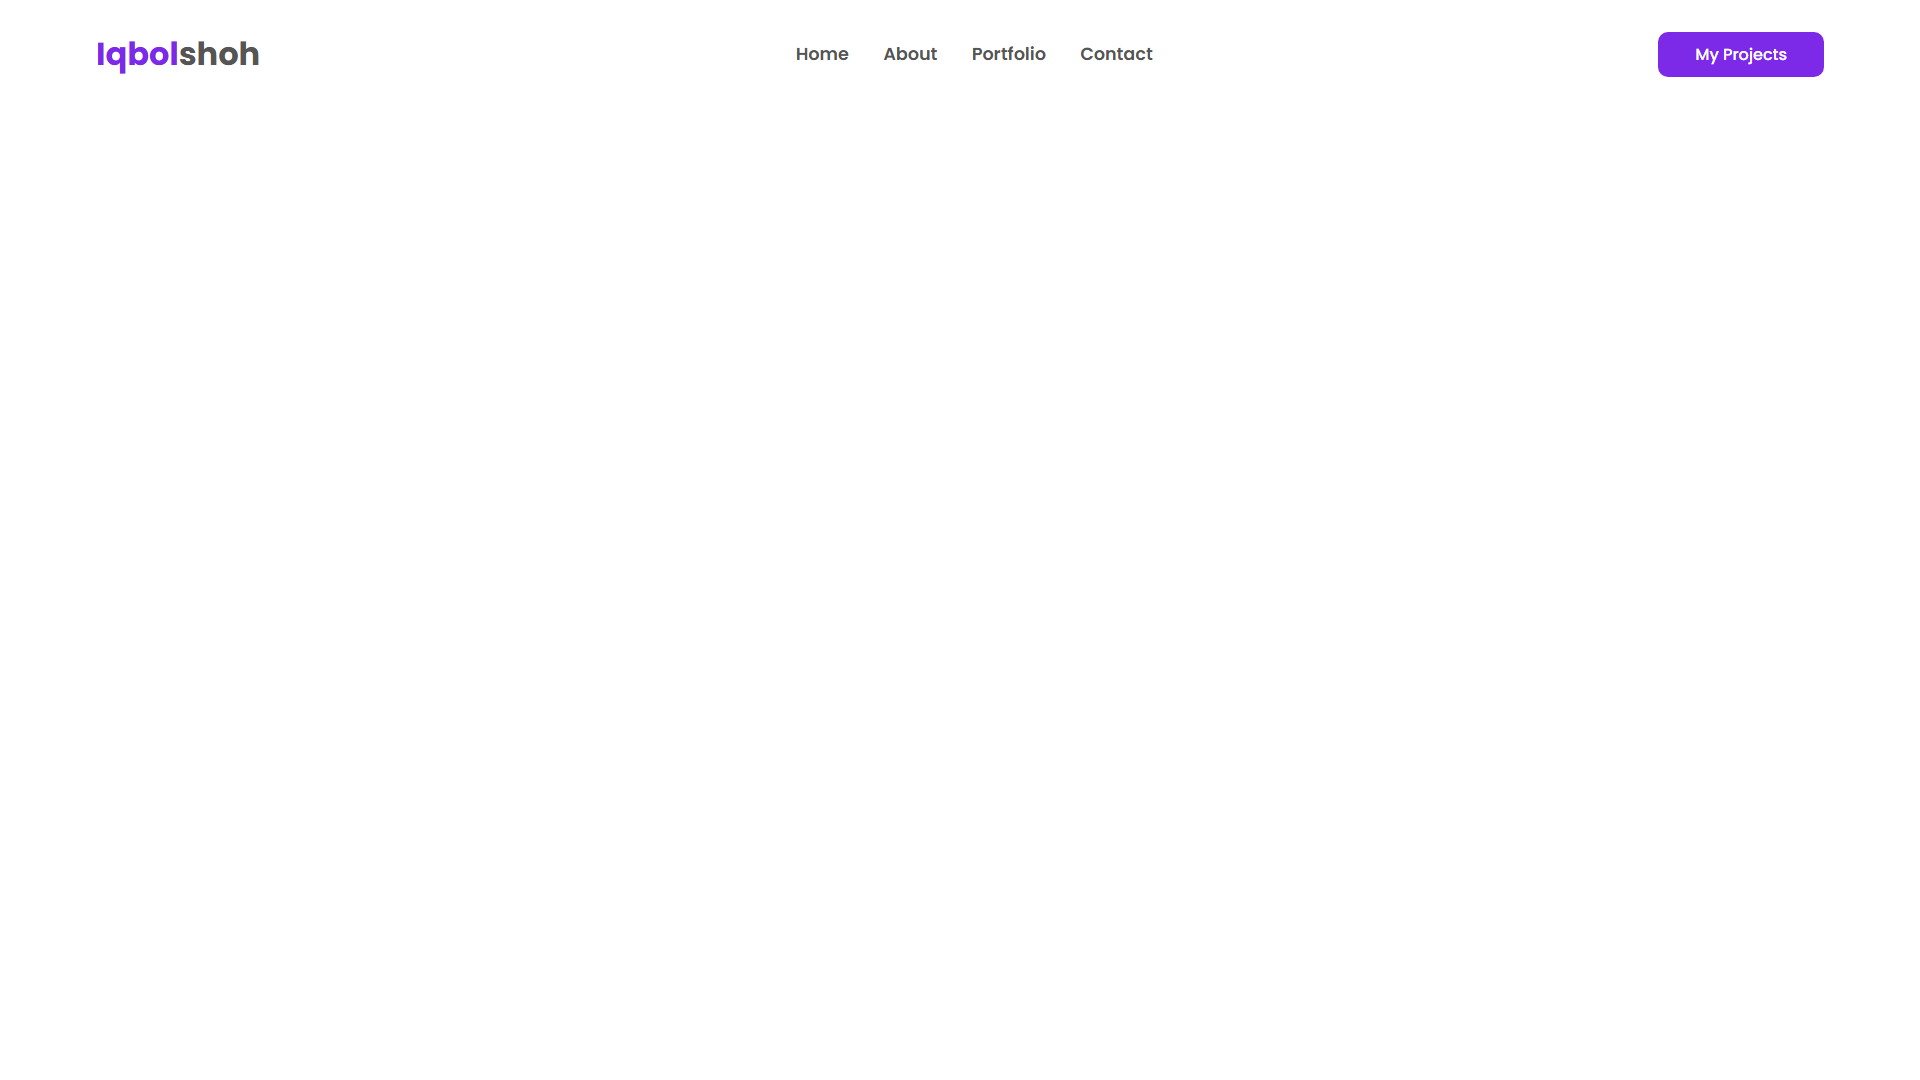
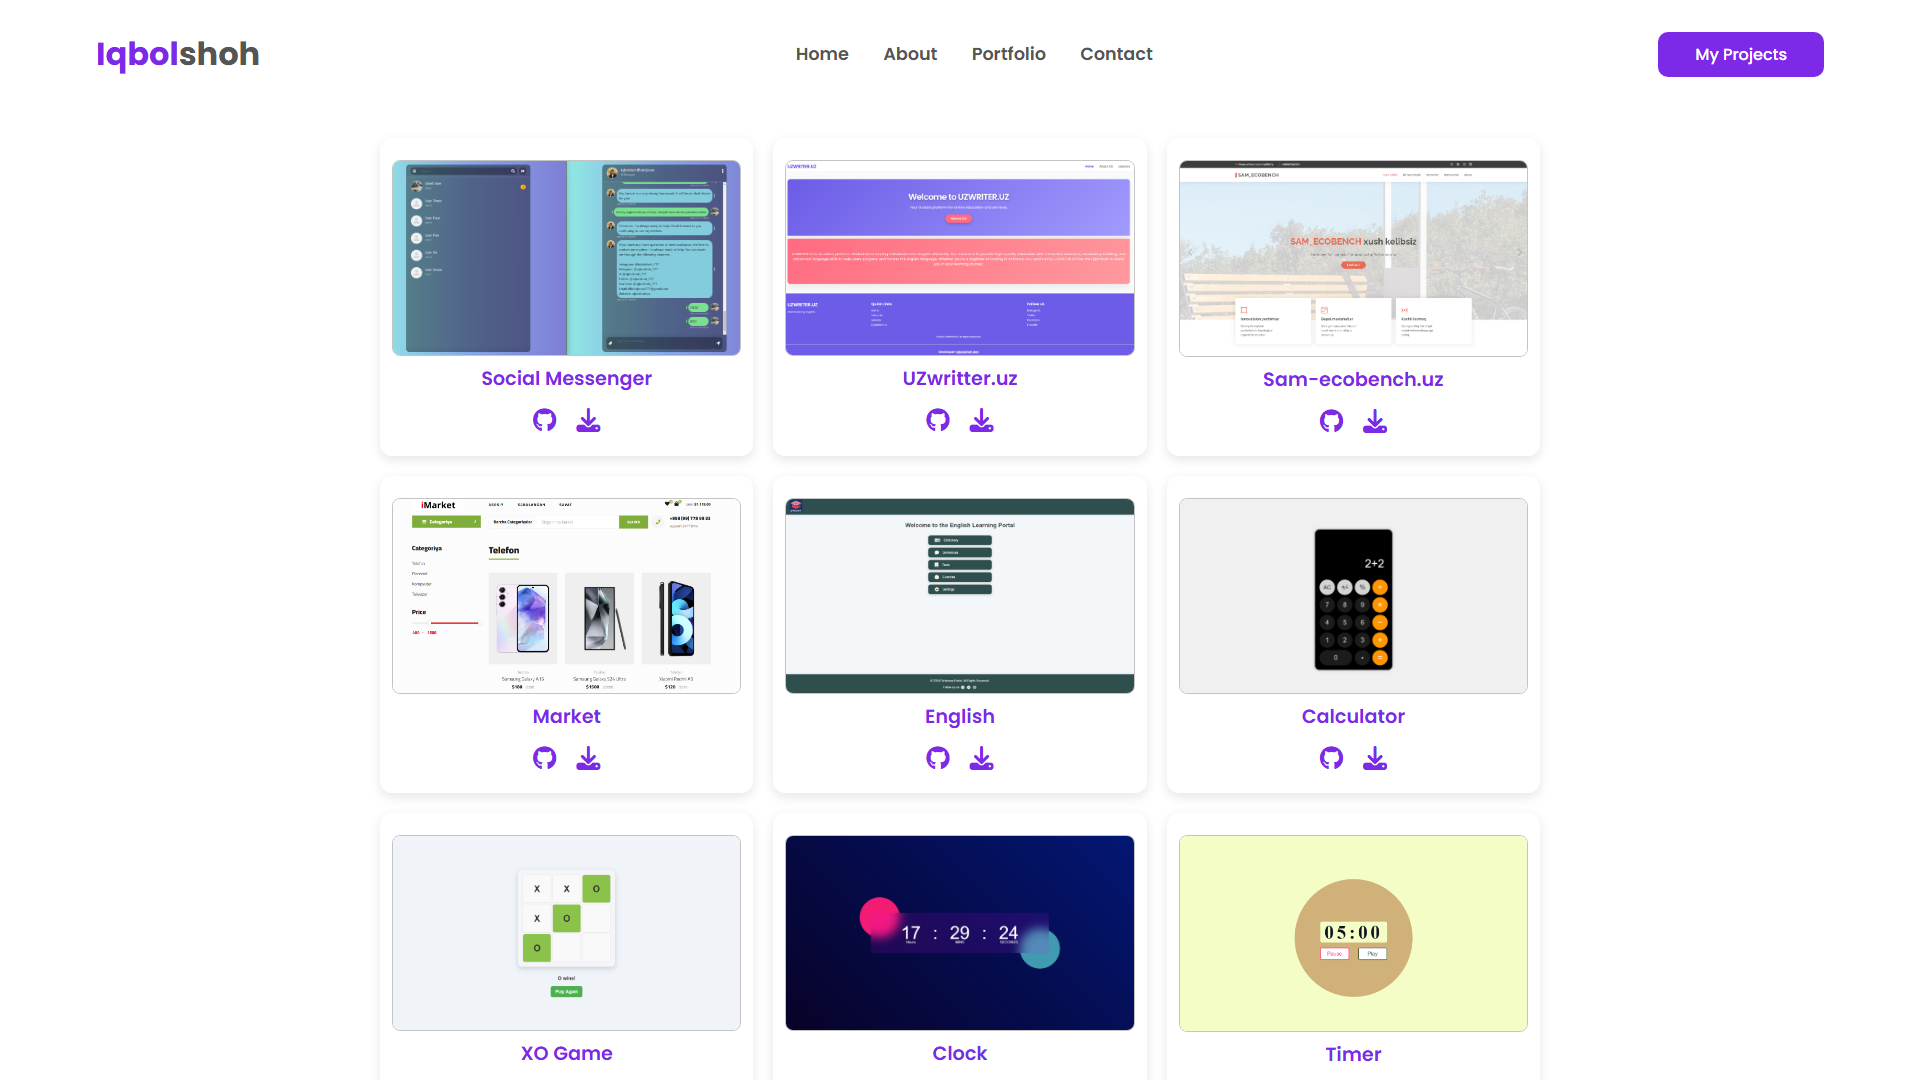
Update README.md and add LICENSE file

diff --git a/README.md b/README.md
@@ -1,19 +1,37 @@
-# 🌐 Ilhomjonov Iqbolshoh - Personal Website
+# 🌐 Iqbolshoh Ilhomjonov — Personal Portfolio Website
 
-![Banner](./src/images/banner.png)  
+**Personal Portfolio Website** is a clean, multi-page personal site built with **HTML, CSS, and JavaScript**. It introduces **Iqbolshoh Ilhomjonov**, a Full-Stack Web Developer from Samarkand, and showcases his projects, background, and contact details.
 
-Welcome to my **personal website repository**! 🎉 This site serves as a digital representation of **who I am**, my **skills**, and the **projects** I’ve worked on. Built with a **clean and modern design**, this portfolio highlights my journey as a **Full-Stack Developer** from **Samarkand**.  
+<p align="left">
+  <img src="https://img.shields.io/badge/HTML-%23E34F26.svg?style=for-the-badge&logo=html5&logoColor=white" alt="HTML">
+  <img src="https://img.shields.io/badge/CSS-%231572B6.svg?style=for-the-badge&logo=css3&logoColor=white" alt="CSS">
+  <img src="https://img.shields.io/badge/License-MIT-green.svg?style=for-the-badge" alt="License">
+</p>
+
+![Banner](./src/images/banner.png)
+
+## 📚 Table of Contents
+
+- [Overview](#-overview)
+- [Screenshots](#-screenshots)
+- [Installation](#-installation)
+- [Project Structure](#-project-structure)
+- [Technologies Used](#-technologies-used)
+- [License](#-license)
+- [Contributing](#-contributing)
+- [Connect with Me](#-connect-with-me)
 
 ## 📌 Overview
 
 This website includes the following sections:
 
-🔹 **Home** – Introduction to who I am.  
-🔹 **About** – My background, skills, and experience.  
-🔹 **Portfolio** – A showcase of my best projects.  
-🔹 **Contact** – Get in touch with me via email or phone.  
+🔹 **Home** – Introduction and a quick link to social profiles.
+🔹 **About** – Background, skills, and experience.
+🔹 **Portfolio** – A live-loaded showcase of 13 projects, each linking to its GitHub repo and a one-click source download.
+🔹 **Contact** – A contact form (powered by [EmailJS](https://www.emailjs.com/)) plus direct email, phone, and GitHub links.
+🔹 **404 Page** – A custom "page not found" screen wired up via `.htaccess`.
 
-## 🖥 Preview
+## 🖥 Screenshots
 
 <p align="center">
   <img src="./src/images/desktop(index).png" alt="Home Page" width="49%">
@@ -22,117 +40,70 @@ This website includes the following sections:
 <p align="center">
   <img src="./src/images/desktop(portfolio).png" alt="Portfolio Page" width="49%">
   <img src="./src/images/desktop(contact).png" alt="Contact Page" width="49%">
-</p>  
+</p>
 
----
+## 🛠 Installation
 
-## 🛠 Installation & Setup  
-
-To run this project on your local machine, follow these simple steps:  
-
-1⃣ **Clone the repository** 🛎:  
-
+### 1⃣ Clone the repository
 ```bash
 git clone https://github.com/Iqbolshoh/personal-portfolio-website.git
-```  
-
-2⃣ **Navigate to the project directory** 📂:  
-
-```bash
 cd personal-portfolio-website
-```  
+```
 
-3⃣ **Open `index.html`** in your **web browser** 🌍 to view the website.  
+### 2⃣ Open `index.html`
+For the Home and About pages, opening `index.html` directly in a browser works fine.
 
----
+> The **Portfolio** page loads `src/js/projects.json` via `fetch()`, which browsers block on the `file://` protocol. Serve the folder with any local server to view it correctly, e.g.:
+> ```bash
+> php -S localhost:8000
+> ```
+> or
+> ```bash
+> npx http-server
+> ```
 
-## 📂 File Structure  
+## 📂 Project Structure
 
-📁 **Project Root**  
-├── `index.html` – **Homepage** 🏠  
-├── `about.html` – **About Me** 📖  
-├── `portfolio.html` – **Projects Portfolio** 🖼  
-├── `contact.html` – **Contact Page** 📩 *(Uses EmailJS for form submissions! 🚀)*  
-├── `src/images/` – **Images & Banners** 🖼  
-├── `src/css/` – **Custom Stylesheets** 🎨  
-└── `src/js/` – **JavaScript Files** ⚡  
-
+```
+personal-portfolio-website/
+├── index.html         # Home page
+├── about.html          # About page
+├── portfolio.html      # Portfolio page (fetches projects.json)
+├── contact.html        # Contact page (EmailJS form)
+├── 404.html            # Custom error page
+├── .htaccess            # Rewrite rules + custom error documents
+├── src/
+│   ├── css/             # Page-specific and shared stylesheets
+│   ├── js/
+│   │   ├── script.js     # Contact form + portfolio rendering logic
+│   │   └── projects.json # Portfolio project data
+│   └── images/           # Banner, profile photos, and project thumbnails
+├── LICENSE
+└── README.md
+```
 
 ## 🖥 Technologies Used
 ![HTML](https://img.shields.io/badge/HTML-%23E34F26.svg?style=for-the-badge&logo=html5&logoColor=white)
 ![CSS](https://img.shields.io/badge/CSS-%231572B6.svg?style=for-the-badge&logo=css3&logoColor=white)
-![Bootstrap](https://img.shields.io/badge/Bootstrap-%23563D7C.svg?style=for-the-badge&logo=bootstrap&logoColor=white)
 ![JavaScript](https://img.shields.io/badge/JavaScript-%23F7DF1C.svg?style=for-the-badge&logo=javascript&logoColor=black)
-![jQuery](https://img.shields.io/badge/jQuery-%230e76a8.svg?style=for-the-badge&logo=jquery&logoColor=white)
-![PHP](https://img.shields.io/badge/PHP-%23777BB4.svg?style=for-the-badge&logo=php&logoColor=white)
+![Font Awesome](https://img.shields.io/badge/Font%20Awesome-%23528DD7.svg?style=for-the-badge&logo=fontawesome&logoColor=white)
 
 ## 📜 License
-This project is open-source and available under the **MIT License**.
+This project is open-source and available under the [MIT License](./LICENSE).
 
-## 🤝 Contributing  
+## 🤝 Contributing
 🎯 Contributions are welcome! If you have suggestions or want to enhance the project, feel free to fork the repository and submit a pull request.
 
-## 📬 Connect with Me  
-💬 I love meeting new people and discussing tech, business, and creative ideas. Let’s connect! You can reach me on these platforms:
+## 📬 Connect with Me
+💬 I love meeting new people and discussing tech, business, and creative ideas. Let's connect! You can reach me on these platforms:
 
 <div align="center">
-  <table>
-    <tr>
-      <td>
-        <a href="https://iqbolshoh.uz" target="_blank">
-          <img src="https://img.icons8.com/color/48/domain.png" 
-               height="40" width="40" alt="Website" title="Website" />
-        </a>
-      </td>
-      <td>
-        <a href="mailto:iilhomjonov777@gmail.com" target="_blank">
-          <img src="https://github.com/gayanvoice/github-active-users-monitor/blob/master/public/images/icons/gmail.svg"
-               height="40" width="40" alt="Email" title="Email" />
-        </a>
-      </td>
-      <td>
-        <a href="https://github.com/iqbolshoh" target="_blank">
-          <img src="https://raw.githubusercontent.com/rahuldkjain/github-profile-readme-generator/master/src/images/icons/Social/github.svg"
-               height="40" width="40" alt="GitHub" title="GitHub" />
-        </a>
-      </td>
-      <td>
-        <a href="https://www.linkedin.com/in/iqbolshoh/" target="_blank">
-          <img src="https://github.com/gayanvoice/github-active-users-monitor/blob/master/public/images/icons/linkedin.svg"
-               height="40" width="40" alt="LinkedIn" title="LinkedIn" />
-        </a>
-      </td>
-      <td>
-        <a href="https://t.me/iqbolshoh_777" target="_blank">
-          <img src="https://github.com/gayanvoice/github-active-users-monitor/blob/master/public/images/icons/telegram.svg"
-               height="40" width="40" alt="Telegram" title="Telegram" />
-        </a>
-      </td>
-      <td>
-        <a href="https://wa.me/998997799333" target="_blank">
-          <img src="https://github.com/gayanvoice/github-active-users-monitor/blob/master/public/images/icons/whatsapp.svg"
-               height="40" width="40" alt="WhatsApp" title="WhatsApp" />
-        </a>
-      </td>
-      <td>
-        <a href="https://instagram.com/iqbolshoh_777" target="_blank">
-          <img src="https://raw.githubusercontent.com/rahuldkjain/github-profile-readme-generator/master/src/images/icons/Social/instagram.svg"
-               height="40" width="40" alt="Instagram" title="Instagram" />
-        </a>
-      </td>
-      <td>
-        <a href="https://x.com/iqbolshoh_777" target="_blank">
-          <img src="https://img.shields.io/badge/X-000000?style=for-the-badge&logo=x&logoColor=white"
-               height="40" width="40" alt="X" title="X (Twitter)" />
-        </a>
-      </td>
-      <td>
-        <a href="https://www.youtube.com/@Iqbolshoh_777" target="_blank">
-          <img src="https://raw.githubusercontent.com/rahuldkjain/github-profile-readme-generator/master/src/images/icons/Social/youtube.svg"
-               height="40" width="40" alt="YouTube" title="YouTube" />
-        </a>
-      </td>
-    </tr>
-  </table>
-</div>
 
+[![Website](https://img.shields.io/badge/Website-4285F4?style=for-the-badge&logo=googlechrome&logoColor=white)](https://iqbolshoh.uz)
+[![Gmail](https://img.shields.io/badge/Gmail-EA4335?style=for-the-badge&logo=gmail&logoColor=white)](mailto:iilhomjonov777@gmail.com)
+[![GitHub](https://img.shields.io/badge/GitHub-181717?style=for-the-badge&logo=github&logoColor=white)](https://github.com/iqbolshoh)
+[![Telegram](https://img.shields.io/badge/Telegram-26A5E4?style=for-the-badge&logo=telegram&logoColor=white)](https://t.me/iqbolshoh_777)
+[![Instagram](https://img.shields.io/badge/Instagram-E4405F?style=for-the-badge&logo=instagram&logoColor=white)](https://www.instagram.com/iqbolshoh_777/)
+[![TikTok](https://img.shields.io/badge/TikTok-000000?style=for-the-badge&logo=tiktok&logoColor=white)](https://tiktok.com/@iqbolshoh_777/)
+
+</div>
